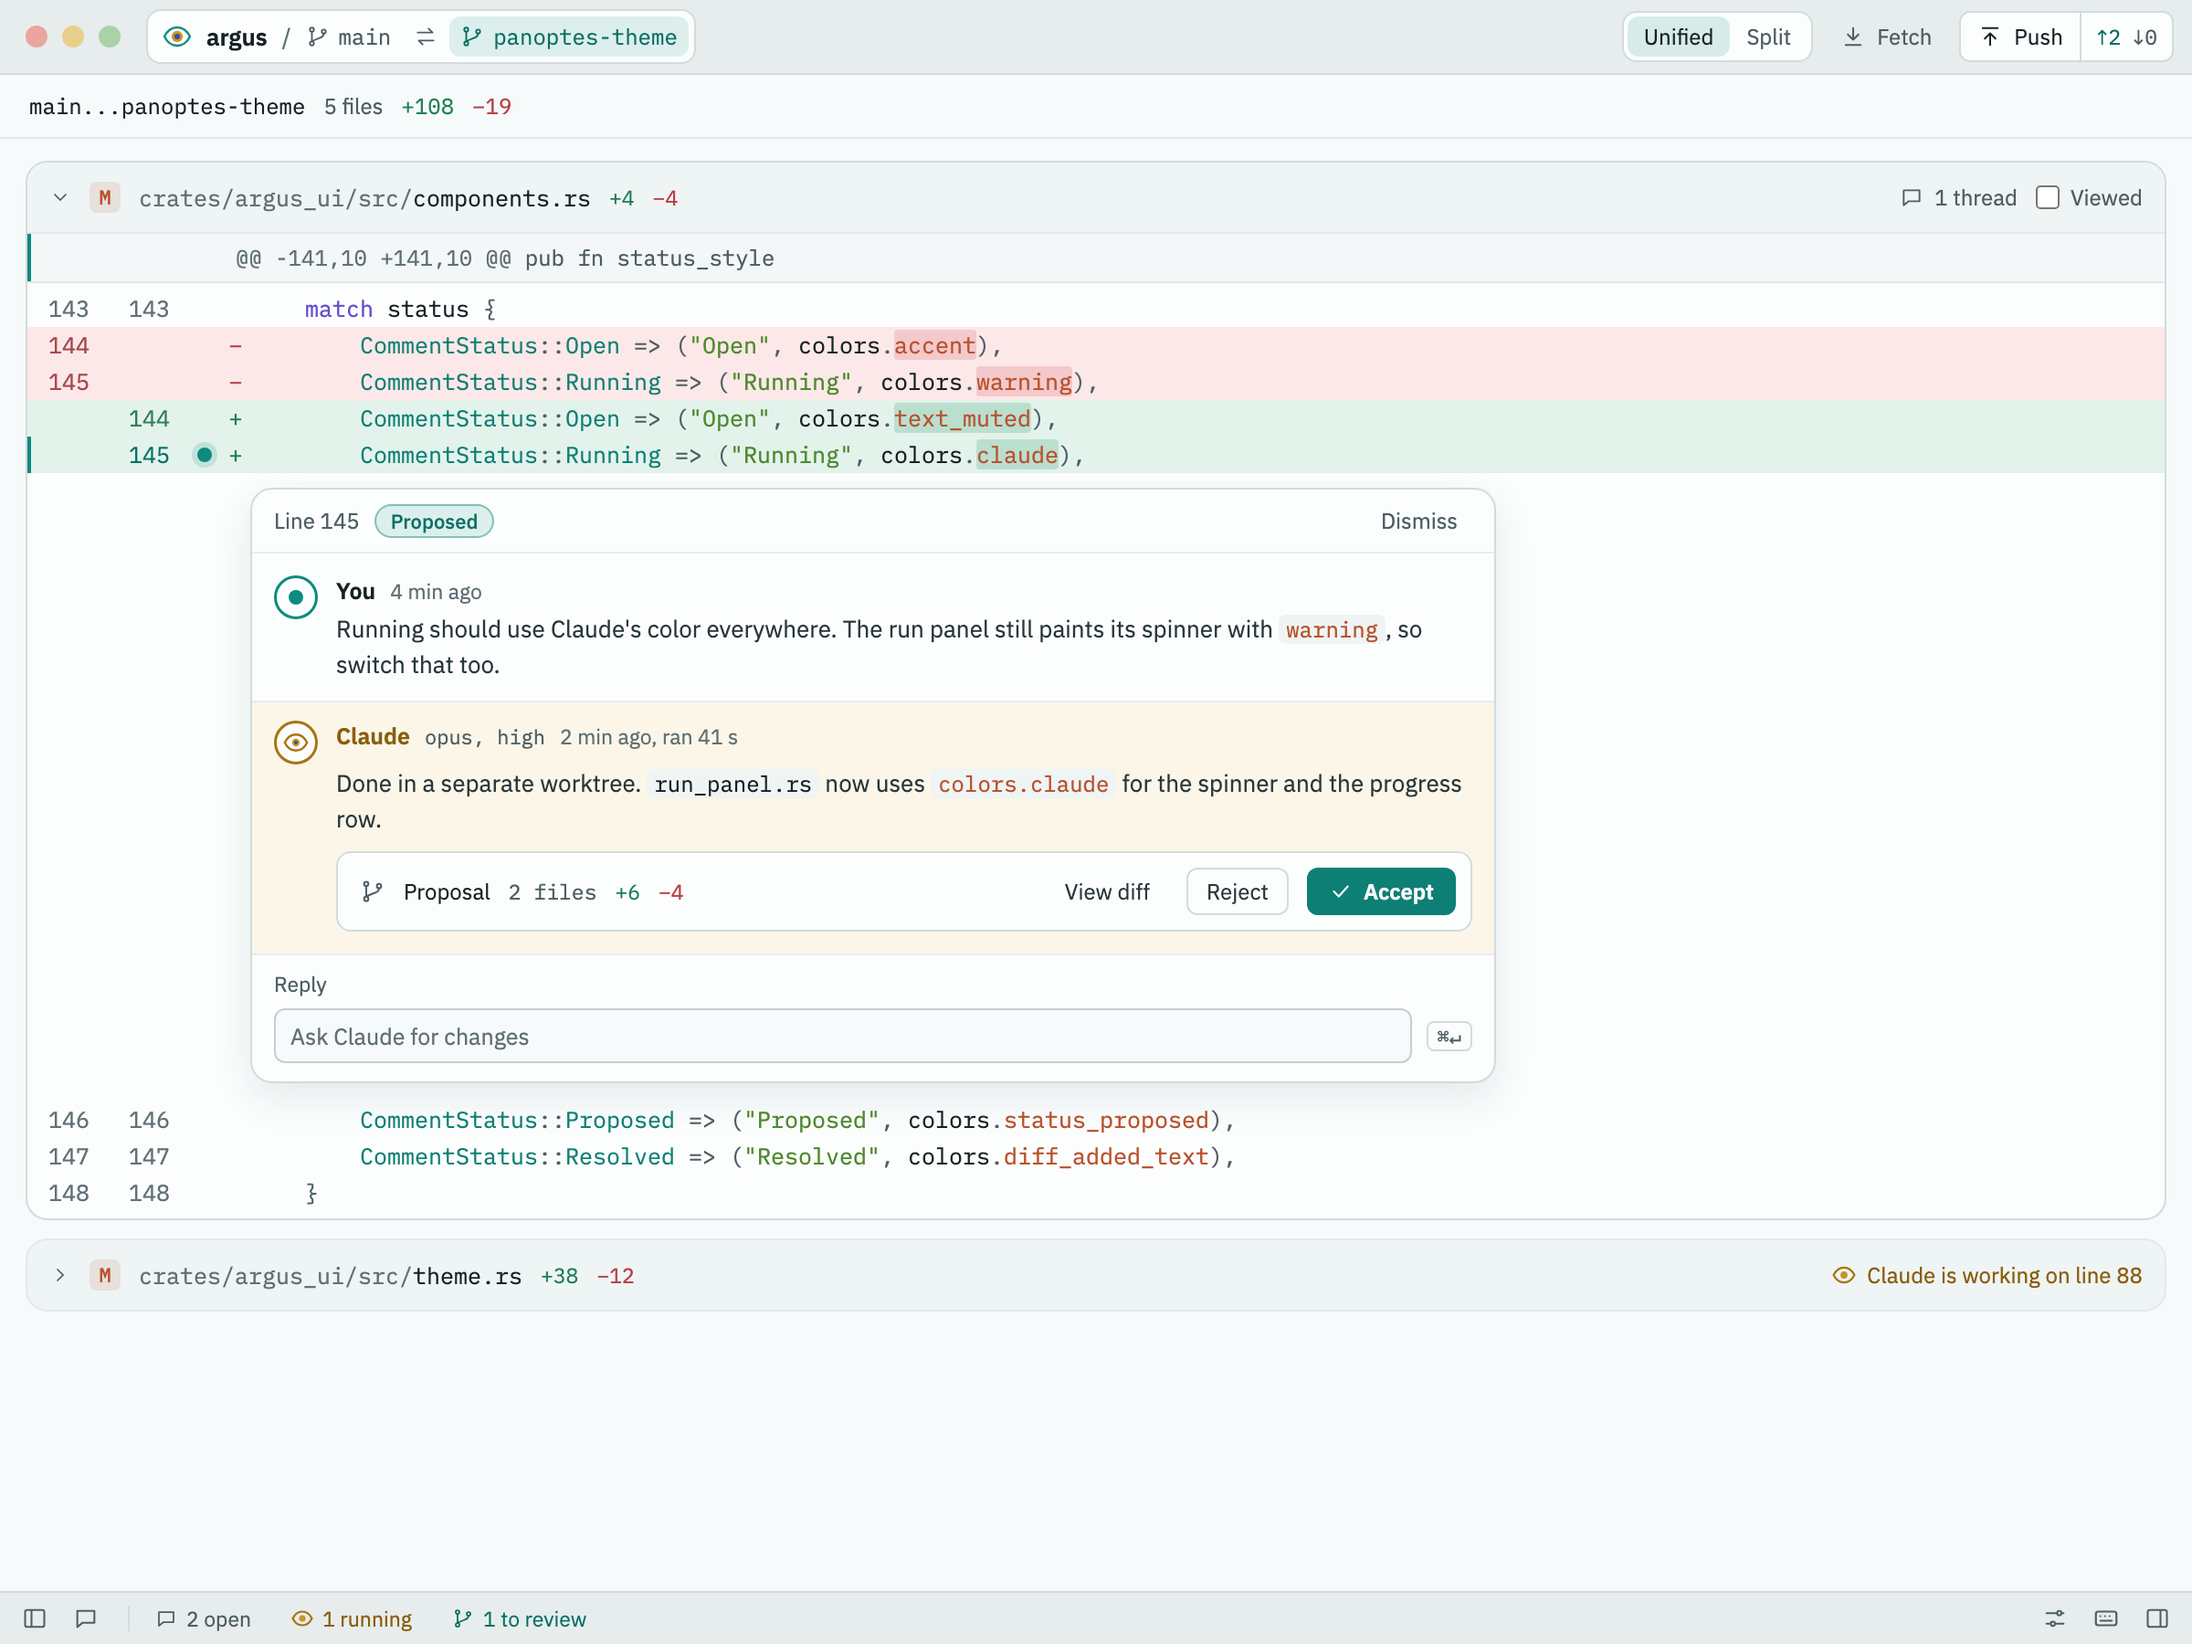
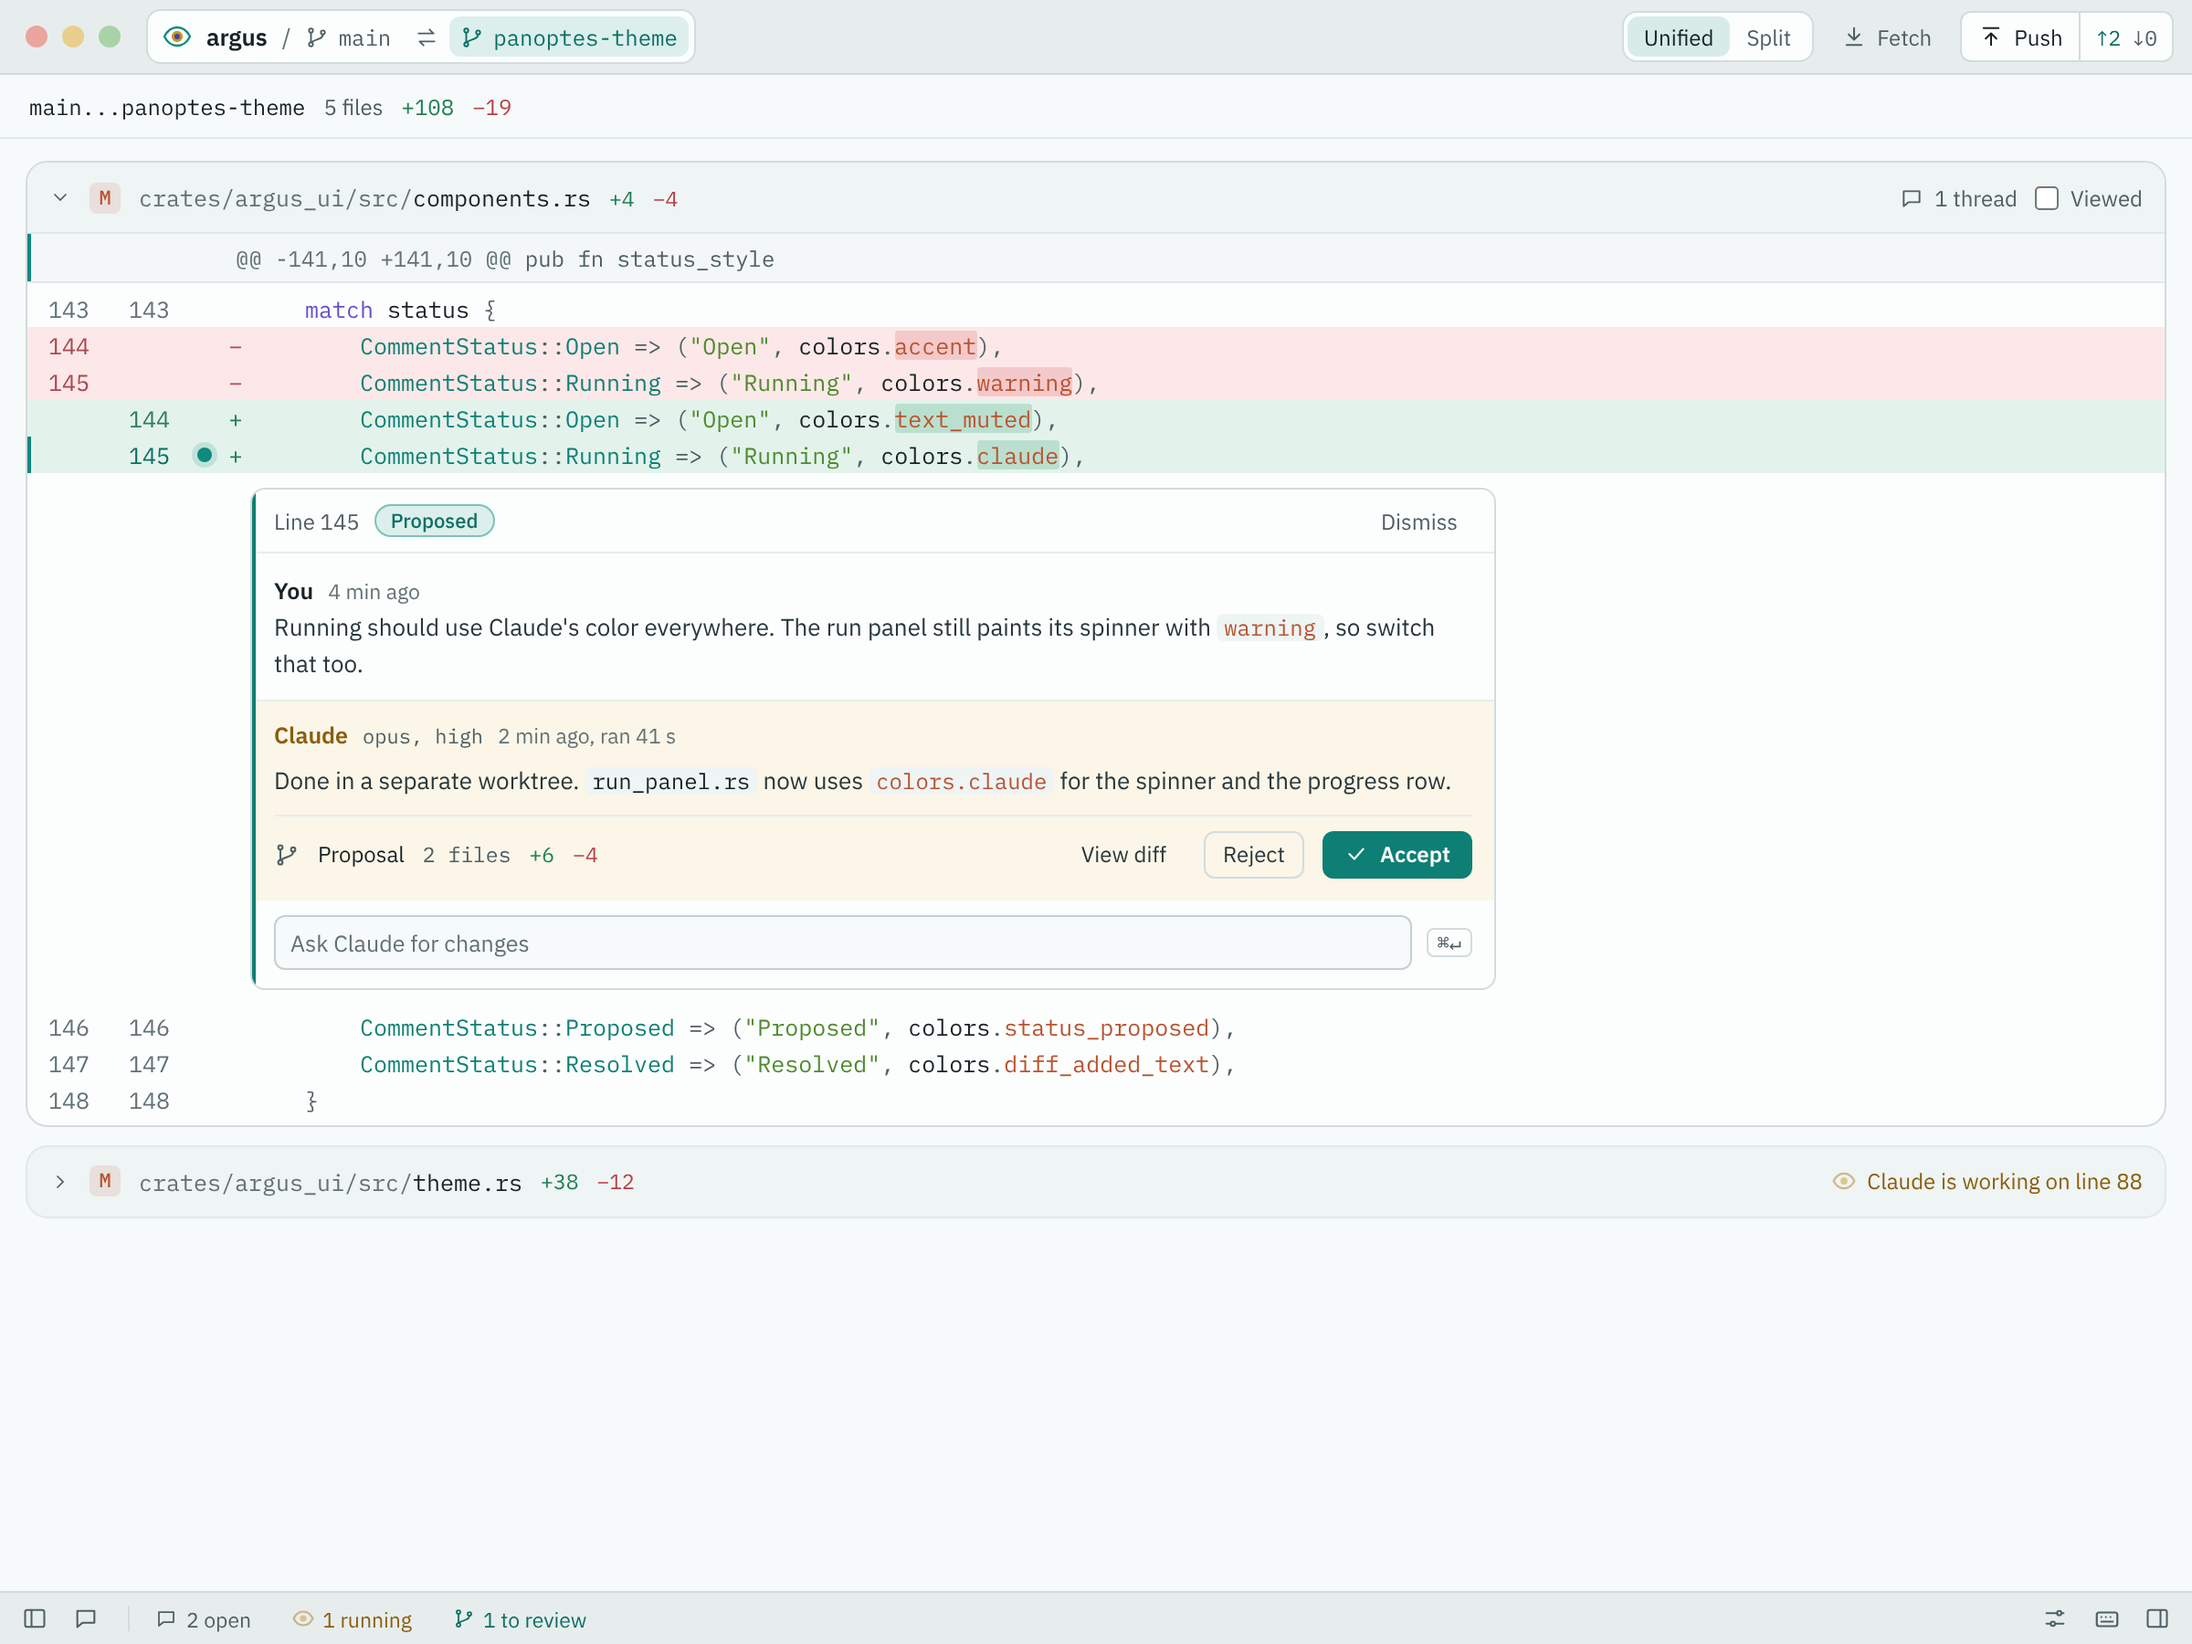
Update the mockups for flatter threads
The Night and Day thread cards follow the revised spec #56 §5: no
shadow or avatars, md radius with a left focus bar, the proposal as a
row under a hairline, and the reply input without its label. PNGs are
re-rendered from the HTML at the same sizes.

Claude-Session: https://claude.ai/code/session_01J2B1YLJsBWvgGVAJFphrLr

diff --git a/docs/mockups/day.html b/docs/mockups/day.html
@@ -91,7 +91,8 @@ input::placeholder{color:#617176}
 <div class="row" style="background: #E3F3EC; box-shadow: inset 2px 0 0 #0E8A7E"><span class="ln"></span><span class="ln" style="color: #0B6F65">145</span><span class="cc"><span title="Proposal to review" style="width: 8px; height: 8px; border-radius: 50%; background: #0E8A7E; box-shadow: 0 0 0 3px rgba(14,138,126,.16)"></span></span><span class="sg" style="color: #1F7F55">+</span><span class="code">        <span class="ty">CommentStatus</span><span class="pu">::</span><span class="ty">Running</span> <span class="pu">=&gt; (</span><span class="st">"Running"</span><span class="pu">,</span> colors<span class="pu">.</span><span class="pr wa">claude</span><span class="pu">),</span></span></div>
 
 <div style="padding: 8px 18px 10px 122px">
-<article style="max-width: 680px; border: 1px solid #D1DCDD; border-radius: 12px; background: #FCFEFE; box-shadow: 0 8px 22px rgba(20,45,50,.10); overflow: hidden">
+<article style="max-width: 680px; border: 1px solid #D1DCDD; border-radius: 8px; background: #FCFEFE; overflow: hidden; position: relative">
+<span aria-hidden="true" style="position: absolute; top: 0; bottom: 0; left: 0; width: 2px; background: #0E7F74"></span>
 <header style="display: flex; align-items: center; gap: 8px; height: 34px; padding: 0 12px; border-bottom: 1px solid #E6EDEE">
 <span style="font-size: 12px; color: #4E5F64">Line 145</span>
 <span style="padding: 1px 8px; border-radius: 999px; background: #DCEFEC; border: 1px solid rgba(14,138,126,.45); color: #0B6F65; font-size: 11px; font-weight: 500">Proposed</span>
@@ -99,18 +100,16 @@ input::placeholder{color:#617176}
 <button style="height: 22px; padding: 0 8px; border-radius: 6px; font-size: 12px; color: #4E5F64">Dismiss</button>
 </header>
 <div style="display: flex; gap: 10px; padding: 12px 12px 10px">
-<span aria-hidden="true" style="flex: none; width: 24px; height: 24px; box-sizing: border-box; border-radius: 50%; border: 1.5px solid #0E8A7E; display: flex; align-items: center; justify-content: center"><span style="width: 8px; height: 8px; border-radius: 50%; background: #0E8A7E"></span></span>
 <div style="display: flex; flex-direction: column; gap: 3px; min-width: 0">
 <div style="display: flex; gap: 8px; align-items: baseline"><span style="font-weight: 600; font-size: 12.5px">You</span><span style="font-size: 11.5px; color: #617176">4 min ago</span></div>
 <p style="margin: 0; line-height: 1.5; color: #29373B">Running should use Claude's color everywhere. The run panel still paints its spinner with <code class="mono" style="font-size: 12px; padding: 0 4px; border-radius: 4px; background: #EFF4F4; color: #B9532F">warning</code>, so switch that too.</p>
 </div>
 </div>
 <div style="display: flex; gap: 10px; padding: 10px 12px 12px; border-top: 1px solid #E6EDEE; background: #FBF6E8">
-<span aria-hidden="true" style="flex: none; width: 24px; height: 24px; box-sizing: border-box; border-radius: 50%; background: #FCFEFE; border: 1.5px solid #A87412; display: flex; align-items: center; justify-content: center"><svg width="14" height="14" viewBox="0 0 24 24"><path d="M1.5 12C4 7 7.8 4.5 12 4.5S20 7 22.5 12C20 17 16.2 19.5 12 19.5S4 17 1.5 12Z" fill="none" stroke="#A87412" stroke-width="2"/><circle cx="12" cy="12" r="3.6" fill="#C99526"/><circle cx="12" cy="12" r="1.7" fill="#3E4AA8"/></svg></span>
 <div style="flex: 1; display: flex; flex-direction: column; gap: 8px; min-width: 0">
 <div style="display: flex; gap: 8px; align-items: baseline"><span style="font-weight: 600; font-size: 12.5px; color: #8A5E0C">Claude</span><span class="mono" style="font-size: 11px; color: #4E5F64">opus, high</span><span style="font-size: 11.5px; color: #617176">2 min ago, ran 41 s</span></div>
 <p style="margin: 0; line-height: 1.5; color: #29373B">Done in a separate worktree. <code class="mono" style="font-size: 12px; padding: 0 4px; border-radius: 4px; background: #EFF4F4; color: #172225">run_panel.rs</code> now uses <code class="mono" style="font-size: 12px; padding: 0 4px; border-radius: 4px; background: #EFF4F4; color: #B9532F">colors.claude</code> for the spinner and the progress row.</p>
-<div style="display: flex; flex-wrap: wrap; align-items: center; gap: 10px; padding: 8px 8px 8px 12px; border: 1px solid #D1DCDD; border-radius: 8px; background: #FCFEFE">
+<div style="display: flex; flex-wrap: wrap; align-items: center; gap: 10px; padding-top: 8px; border-top: 1px solid #E6EDEE">
 <svg width="14" height="14" viewBox="0 0 24 24" fill="none" stroke="#4E5F64" stroke-width="1.75" stroke-linecap="round" stroke-linejoin="round" aria-hidden="true"><circle cx="6" cy="5" r="2"/><circle cx="6" cy="19" r="2"/><circle cx="18" cy="7" r="2"/><path d="M6 7v10M18 9c0 5-6 4-12 8"/></svg>
 <span style="font-size: 12px">Proposal</span>
 <span class="mono" style="font-size: 11.5px; color: #4E5F64">2 files</span>
@@ -122,10 +121,9 @@ input::placeholder{color:#617176}
 </div>
 </div>
 </div>
-<div style="display: flex; flex-direction: column; gap: 6px; padding: 8px 12px 10px; border-top: 1px solid #E6EDEE">
-<label for="reply-day" style="font-size: 11.5px; color: #4E5F64">Reply</label>
+<div style="padding: 8px 12px 10px">
 <div style="display: flex; align-items: center; gap: 8px">
-<input id="reply-day" type="text" placeholder="Ask Claude for changes" style="flex: 1; height: 28px; padding: 0 8px; border-radius: 6px; border: 1px solid #C3D0D2; background: #F7FAFA; color: #172225; font-size: 12.5px; outline: none">
+<input id="reply-day" type="text" aria-label="Reply" placeholder="Ask Claude for changes" style="flex: 1; height: 28px; padding: 0 8px; border-radius: 6px; border: 1px solid #C3D0D2; background: #F7FAFA; color: #172225; font-size: 12.5px; outline: none">
 <kbd class="mono" style="padding: 0 5px; border: 1px solid #D1DCDD; border-radius: 4px; font-size: 11px; color: #4E5F64">⌘↵</kbd>
 </div>
 </div>

diff --git a/docs/mockups/night.html b/docs/mockups/night.html
@@ -144,7 +144,8 @@ input::placeholder{color:#71868E}
 
 <!-- Thread card -->
 <div style="padding: 8px 18px 10px 122px">
-<article style="max-width: 680px; border: 1px solid #22313A; border-radius: 12px; background: #17222A; box-shadow: 0 10px 28px rgba(3,10,12,.55); overflow: hidden">
+<article style="max-width: 680px; border: 1px solid #22313A; border-radius: 8px; background: #17222A; overflow: hidden; position: relative">
+<span aria-hidden="true" style="position: absolute; top: 0; bottom: 0; left: 0; width: 2px; background: #34C3B4"></span>
 <header style="display: flex; align-items: center; gap: 8px; height: 34px; padding: 0 12px; border-bottom: 1px solid #1F2D35">
 <span style="font-size: 12px; color: #8FA3AA">Line 145</span>
 <span style="padding: 1px 8px; border-radius: 999px; background: #34C3B422; border: 1px solid #34C3B473; color: #34C3B4; font-size: 11px; font-weight: 500">Proposed</span>
@@ -153,7 +154,6 @@ input::placeholder{color:#71868E}
 </header>
 
 <div style="display: flex; gap: 10px; padding: 12px 12px 10px">
-<span aria-hidden="true" style="flex: none; width: 24px; height: 24px; box-sizing: border-box; border-radius: 50%; border: 1.5px solid #34C3B4; display: flex; align-items: center; justify-content: center"><span style="width: 8px; height: 8px; border-radius: 50%; background: #34C3B4"></span></span>
 <div style="display: flex; flex-direction: column; gap: 3px; min-width: 0">
 <div style="display: flex; gap: 8px; align-items: baseline"><span style="font-weight: 600; font-size: 12.5px">You</span><span style="font-size: 11.5px; color: #71868E">4 min ago</span></div>
 <p style="margin: 0; line-height: 1.5; color: #C9D6D9">Running should use Claude's color everywhere. The run panel still paints its spinner with <code class="mono" style="font-size: 12px; padding: 0 4px; border-radius: 4px; background: #0E1417; color: #E58F7A">warning</code>, so switch that too.</p>
@@ -161,11 +161,10 @@ input::placeholder{color:#71868E}
 </div>
 
 <div style="display: flex; gap: 10px; padding: 10px 12px 12px; border-top: 1px solid #1F2D35; background: #E3B04B12">
-<span aria-hidden="true" style="flex: none; width: 24px; height: 24px; box-sizing: border-box; border-radius: 50%; background: #0E1417; border: 1.5px solid #E3B04B; display: flex; align-items: center; justify-content: center"><svg width="14" height="14" viewBox="0 0 24 24"><path d="M1.5 12C4 7 7.8 4.5 12 4.5S20 7 22.5 12C20 17 16.2 19.5 12 19.5S4 17 1.5 12Z" fill="none" stroke="#E3B04B" stroke-width="2"/><circle cx="12" cy="12" r="3.6" fill="#E3B04B"/><circle cx="12" cy="12" r="1.7" fill="#3E4AA8"/></svg></span>
 <div style="flex: 1; display: flex; flex-direction: column; gap: 8px; min-width: 0">
 <div style="display: flex; gap: 8px; align-items: baseline"><span style="font-weight: 600; font-size: 12.5px; color: #E3B04B">Claude</span><span class="mono" style="font-size: 11px; color: #8FA3AA">opus, high</span><span style="font-size: 11.5px; color: #71868E">2 min ago, ran 41 s</span></div>
 <p style="margin: 0; line-height: 1.5; color: #C9D6D9">Done in a separate worktree. <code class="mono" style="font-size: 12px; padding: 0 4px; border-radius: 4px; background: #0E1417; color: #DCE6E8">run_panel.rs</code> now uses <code class="mono" style="font-size: 12px; padding: 0 4px; border-radius: 4px; background: #0E1417; color: #E58F7A">colors.claude</code> for the spinner and the progress row.</p>
-<div style="display: flex; flex-wrap: wrap; align-items: center; gap: 10px; padding: 8px 8px 8px 12px; border: 1px solid #22313A; border-radius: 8px; background: #0E1417">
+<div style="display: flex; flex-wrap: wrap; align-items: center; gap: 10px; padding-top: 8px; border-top: 1px solid #1F2D35">
 <svg width="14" height="14" viewBox="0 0 24 24" fill="none" stroke="#8FA3AA" stroke-width="1.75" stroke-linecap="round" stroke-linejoin="round" aria-hidden="true"><circle cx="6" cy="5" r="2"/><circle cx="6" cy="19" r="2"/><circle cx="18" cy="7" r="2"/><path d="M6 7v10M18 9c0 5-6 4-12 8"/></svg>
 <span style="font-size: 12px">Proposal</span>
 <span class="mono" style="font-size: 11.5px; color: #8FA3AA">2 files</span>
@@ -178,10 +177,9 @@ input::placeholder{color:#71868E}
 </div>
 </div>
 
-<div style="display: flex; flex-direction: column; gap: 6px; padding: 8px 12px 10px; border-top: 1px solid #1F2D35">
-<label for="reply-night" style="font-size: 11.5px; color: #8FA3AA">Reply</label>
+<div style="padding: 8px 12px 10px">
 <div style="display: flex; align-items: center; gap: 8px">
-<input id="reply-night" type="text" placeholder="Ask Claude for changes" style="flex: 1; height: 28px; padding: 0 8px; border-radius: 6px; border: 1px solid #22313A; background: #0E1417; color: #DCE6E8; font-size: 12.5px; outline: none">
+<input id="reply-night" type="text" aria-label="Reply" placeholder="Ask Claude for changes" style="flex: 1; height: 28px; padding: 0 8px; border-radius: 6px; border: 1px solid #22313A; background: #0E1417; color: #DCE6E8; font-size: 12.5px; outline: none">
 <kbd class="mono" style="padding: 0 5px; border: 1px solid #22313A; border-radius: 4px; font-size: 11px; color: #8FA3AA">⌘↵</kbd>
 </div>
 </div>

diff --git a/crates/argus_ui/src/components.rs b/crates/argus_ui/src/components.rs
@@ -1,7 +1,8 @@
 //! Small styled building blocks shared by the shell views.
 //!
 //! Every component draws its corners from the [`radius`] scale (Panoptes #56
-//! §4); pills (`rounded_full`) are reserved for status chips and avatars.
+//! §4); pills (`rounded_full`) are reserved for status chips and gutter
+//! markers.
 
 use std::rc::Rc;
 use std::time::Duration;
